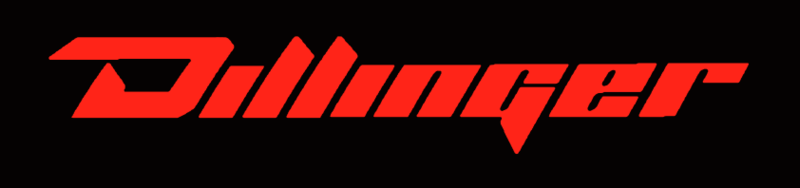
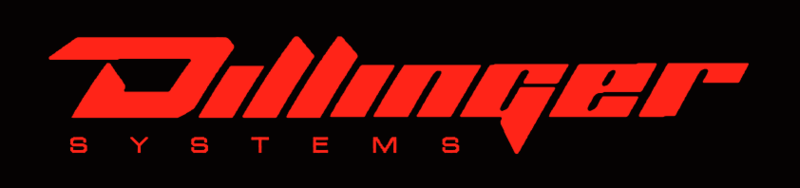
Dillinger boots under its whole name
The splash took the same mark the bar wears, which is the wordmark alone —
so the machine booted saying "Dillinger" while the company is Dillinger
Systems. A theme can now name a fuller lockup for the splash, where there
is room for a strapline; the bar and the HUD keep the wordmark, which is
all that is legible at twelve pixels high. Dillinger's traced logo already
had the SYSTEMS line under it; nothing else needs one.

diff --git a/tools/make-theme.py b/tools/make-theme.py
@@ -203,15 +203,18 @@ def wallpapers(out, accent, accent_hi, ink):
         svg_file.unlink()
 
 
-def logo_art(out, accent, accent_hi, ink, poster, mark, splash=None):
+def logo_art(out, accent, accent_hi, ink, poster, mark, splash=None, splash_mark=None):
     """Two pieces of art in the theme's colour.
 
     The boot splash and the disk unlock prompt carry the mark the desktop
     wears — ENCOM for the ENCOM houses, Dillinger for Dillinger — because
-    that is whose machine it is. The poster card names the theme instead, and
-    is only ever seen in the readme and the theme picker."""
+    that is whose machine it is. A house whose full lockup has a strapline
+    uses it here, where there is room for it; the bar and the HUD keep the
+    wordmark alone, which is all that is legible at twelve pixels high. The
+    poster card names the theme instead, and is only ever seen in the readme
+    and the theme picker."""
     plate = out / "_mark.png"
-    run(["rsvg-convert", "-w", "760", "-o", str(plate), str(mark)])
+    run(["rsvg-convert", "-w", "760", "-o", str(plate), str(splash_mark or mark)])
     run(["magick", str(plate), "-background", "none", "-fill", splash or accent_hi, "-colorize", "100",
          "-bordercolor", "none", "-border", "20x20", "-resize", "800x188",
          "-background", ink, "-gravity", "center", "-extent", "800x188", str(out / "unlock.png")])
@@ -276,7 +279,7 @@ def build(name):
     accent, bright, ink = palette["accent"], palette["accentHi"], palette["ink"]
     wallpapers(out, accent, bright, ink)
     logo_art(out, accent, bright, ink, poster_of(name), out / "logo" / "mark.svg",
-             palette.get("splash"))
+             palette.get("splash"), splash_mark_of(name))
     print(name, "accent", accent, "contrast", mapping["#ff8c21"])
 
 
@@ -356,6 +359,16 @@ def cursor_name(name):
     return "-".join(p.capitalize() for p in name.split("-")) + "-Cursor"
 
 
+# A house whose mark has a strapline shows the whole lockup on the boot
+# screen, where there is room for it.
+SPLASH_MARK = {"dillinger-systems": "dillinger-logo.svg"}
+
+
+def splash_mark_of(name):
+    own = THEMES_DIR / name / "logo" / SPLASH_MARK.get(name, "")
+    return own if SPLASH_MARK.get(name) and own.exists() else None
+
+
 def poster_of(name):
     own = THEMES_DIR / name / "logo" / POSTER.get(name, "mark.svg")
     return own if own.exists() else THEMES_DIR / name / "logo" / "mark.svg"
@@ -379,7 +392,7 @@ def repost(name):
     palette = json.loads((out / "encom.json").read_text())
     logo_art(out, palette["accent"], palette["accentHi"],
              palette.get("ink", "#010305"), poster_of(name), out / "logo" / "mark.svg",
-             palette.get("splash"))
+             palette.get("splash"), splash_mark_of(name))
     print(name, "poster from", poster_of(name).name)
 
 
